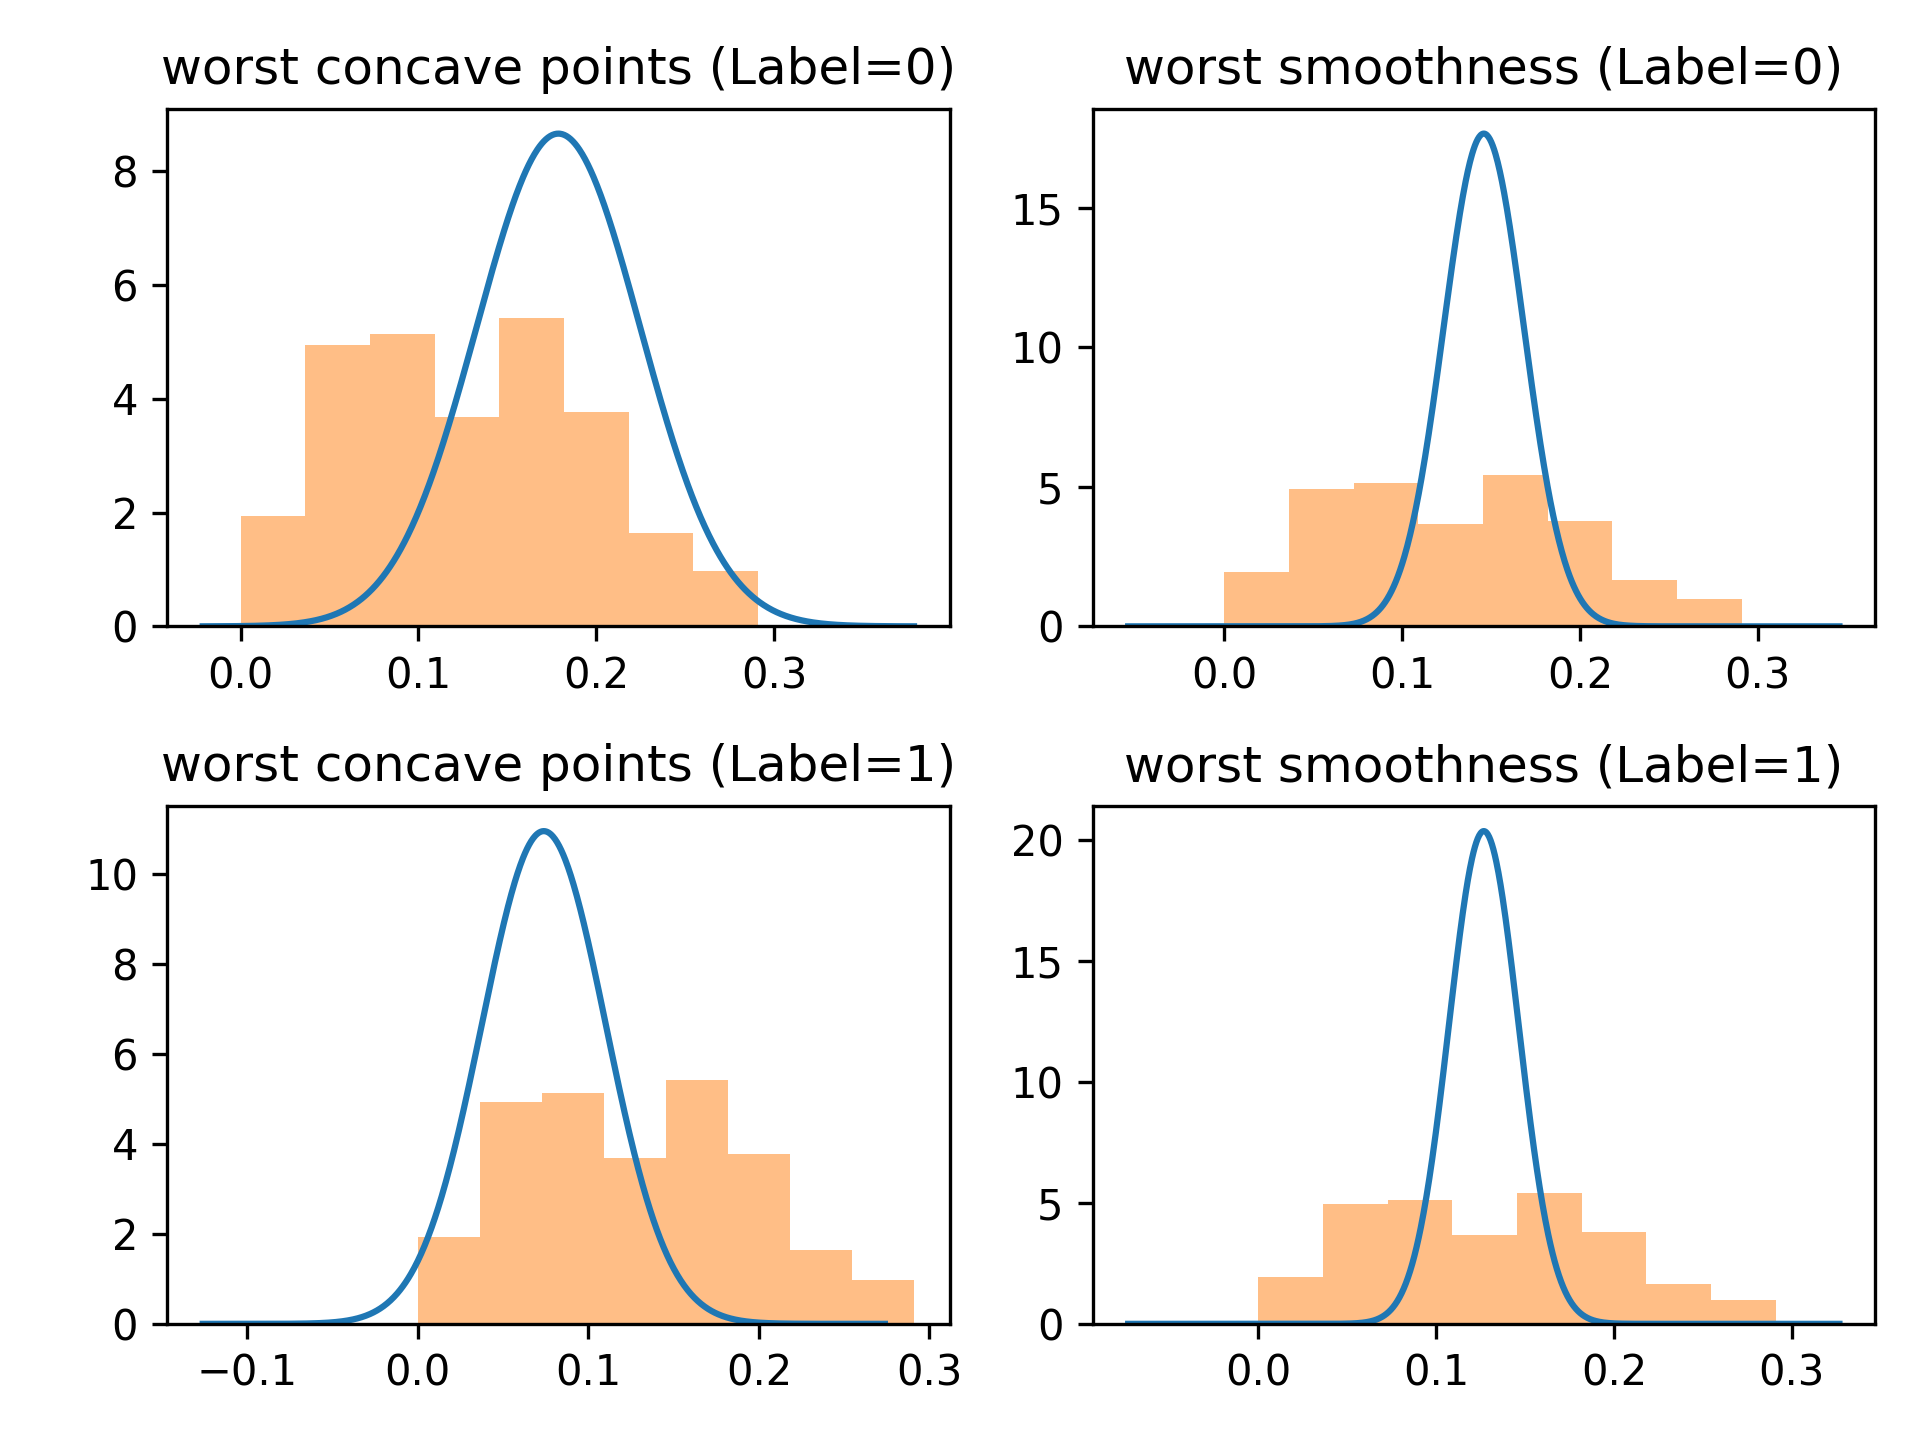
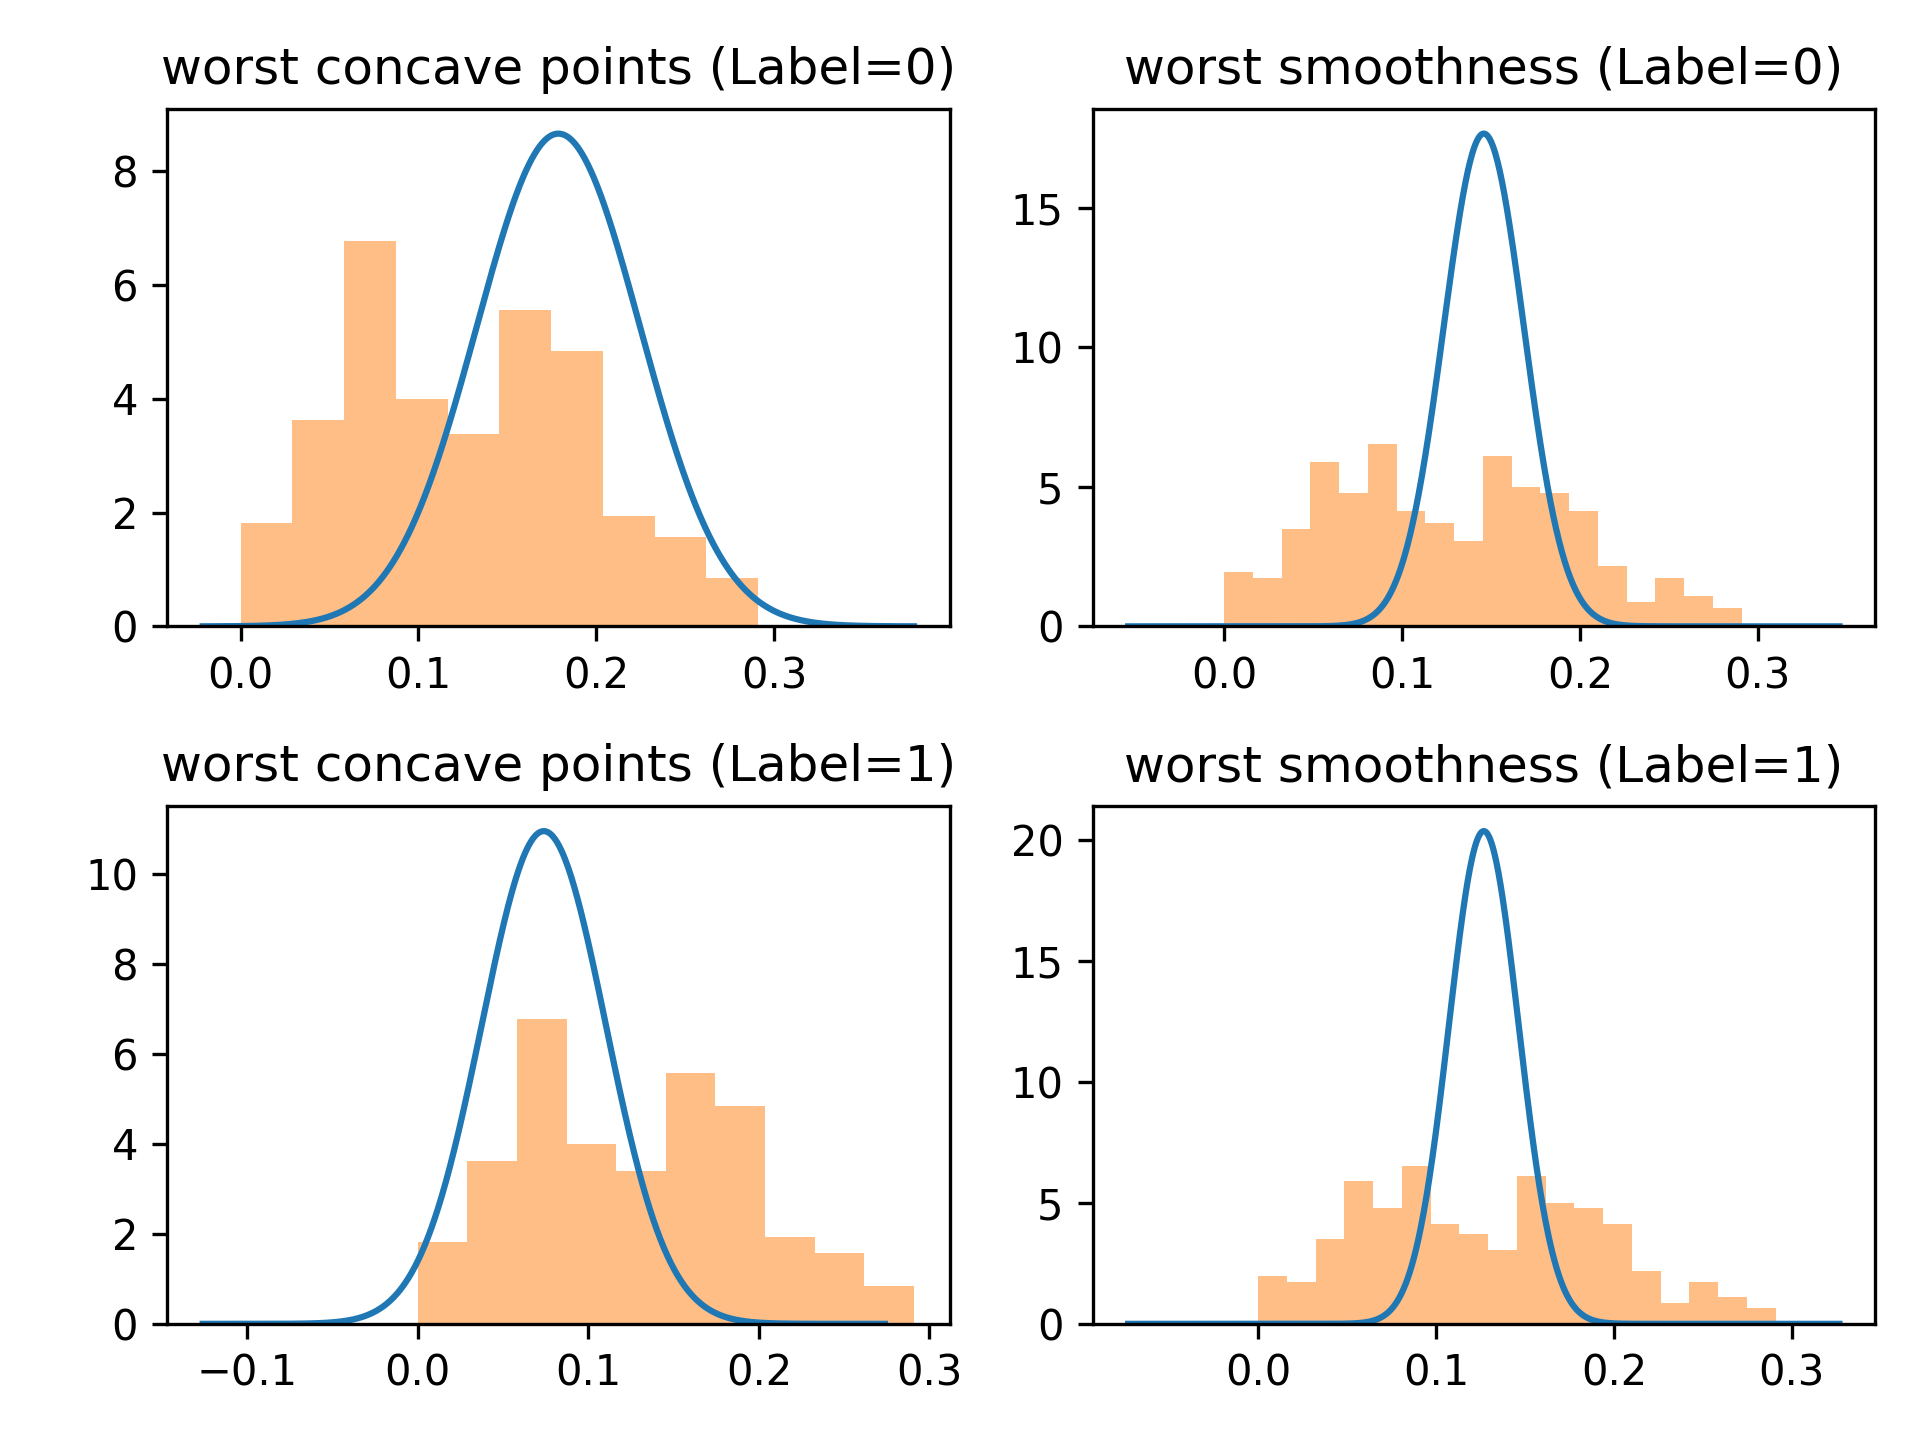
-

diff --git a/inductive_bias/main_naive_bayes.py b/inductive_bias/main_naive_bayes.py
@@ -16,11 +16,29 @@ if __name__ == '__main__':
     train_features_raw = train_features.copy()
 
     if isinstance(NAIVE_BAYES, CategoricalNB):
-        bins = preprocessing.KBinsDiscretizer(
-            n_bins=8, encode='ordinal', strategy='uniform')
-        bins.fit(train_features)
-        train_features = bins.transform(train_features)
-        test_features = bins.transform(test_features)
+        bins_feature_0 = preprocessing.KBinsDiscretizer(
+            n_bins=10, encode='ordinal', strategy='uniform')
+        bins_feature_1 = preprocessing.KBinsDiscretizer(
+            n_bins=18, encode='ordinal', strategy='uniform')
+
+        train_feature_0 = np.expand_dims(train_features[:,0],axis=1)
+        train_feature_1 = np.expand_dims(train_features[:,1],axis=1)
+        test_feature_0 = np.expand_dims(test_features[:,0],axis=1)
+        test_feature_1 = np.expand_dims(test_features[:,1],axis=1)
+    
+        # Fit discretizer values with train data
+        bins_feature_0.fit(train_feature_0)
+        bins_feature_1.fit(train_feature_1)
+
+        # Transform feature values
+        train_feature_0 = bins_feature_0.transform(train_feature_0)
+        train_feature_1 = bins_feature_1.transform(train_feature_1)
+        test_feature_0 = bins_feature_0.transform(test_feature_0)
+        test_feature_1 = bins_feature_1.transform(test_feature_1)
+
+        train_features = np.concatenate((train_feature_0,train_feature_1),axis=1)
+        test_features = np.concatenate((test_feature_0,test_feature_1),axis=1)
+
         filename = 'naive-bayes-categorical'
     else:
         filename = 'naive-bayes-gaussian'
@@ -32,19 +50,22 @@ if __name__ == '__main__':
     loss = log_loss(test_labels, probs_test)
     print(f'loss: {loss:.4f}')
 
-    feature_0 = np.linspace(0.0, 0.291, 1000)
-    feature_1 = np.linspace(0.07117, 0.2226, 1000)
-
-    mesh = utils.create_mesh(feature_0, feature_1)
+    feature_0_raw = np.linspace(0.0, 0.291, 1000)
+    feature_1_raw = np.linspace(0.07117, 0.2226, 1000)
 
     if isinstance(NAIVE_BAYES, CategoricalNB):
-        mesh = bins.transform(mesh)
+        feature_0 = np.expand_dims(feature_0_raw, axis=1)
+        feature_0 = bins_feature_0.transform(feature_0)
+        feature_1 = np.expand_dims(feature_1_raw, axis=1)
+        feature_1 = bins_feature_1.transform(feature_1)
+
+    mesh = utils.create_mesh(feature_0, feature_1)
 
     # Predict P(Y=1|X), discard P(Y=0|X)
     probs = naives_bayes.predict_proba(mesh)[:, 1]
 
-    utils.plot_color_mesh(feature_0,
-                          feature_1,
+    utils.plot_color_mesh(feature_0_raw,
+                          feature_1_raw,
                           probs,
                           x_name='worst concave points',
                           y_name='worst smoothness',

diff --git a/inductive_bias/analysis.py b/inductive_bias/analysis.py
@@ -18,21 +18,23 @@ if __name__ == '__main__':
     fig, ax = plt.subplots(nrows=2, ncols=2)
     plt.subplots_adjust(hspace=0.5)
 
+    num_bins = [10, 18]
+
     data = [
-        [mean_0, std_0],  # label 0
+        [mean_0, std_0], # label 0
         [mean_1, std_1]  # label 1
     ]
     for row_index, row in enumerate(data):
         mean = row[0]
         std = row[1]
-        for col_index, col in enumerate(row):
-            ax[row_index][col_index].set_title(
-                f'{dataset.feature_names[col_index]} (Label={row_index})')
-            x = np.linspace(mean[col_index]-0.2, mean[col_index]+0.2, 1000)
-            ax[row_index][col_index].plot(
-                x, scipy.stats.norm.pdf(x, mean[col_index], std[col_index]))
-            ax[row_index][col_index].hist(
-                train_features[:, 0], bins=8, density=True, histtype='stepfilled', alpha=0.5)
+        for feature_index, col in enumerate(row):
+            ax[row_index][feature_index].set_title(
+                f'{dataset.feature_names[feature_index]} (Label={row_index})')
+            x = np.linspace(mean[feature_index]-0.2, mean[feature_index]+0.2, 1000)
+            ax[row_index][feature_index].plot(
+                x, scipy.stats.norm.pdf(x, mean[feature_index], std[feature_index]))
+            ax[row_index][feature_index].hist(
+                train_features[:, 0], bins=num_bins[feature_index], density=True, histtype='stepfilled', alpha=0.5)
 
     plt.tight_layout()
     plt.savefig('inductive_bias/images/histograms.png', dpi=300)

diff --git a/inductive_bias/README.md b/inductive_bias/README.md
@@ -37,9 +37,9 @@ The conditional probability distributions of different machine learning models a
     <td>0.2444</td>
 </tr>
 <tr>
-    <td>Naive Bayes – Categorical (8 bins)</td>
+    <td>Naive Bayes – Categorical (10 bins, 18 bins)</td>
     <td><img src="images/naive-bayes-categorical.png"></td>
-    <td>0.2388</td>
+    <td>0.2326</td>
 </tr>
 </table>
 
